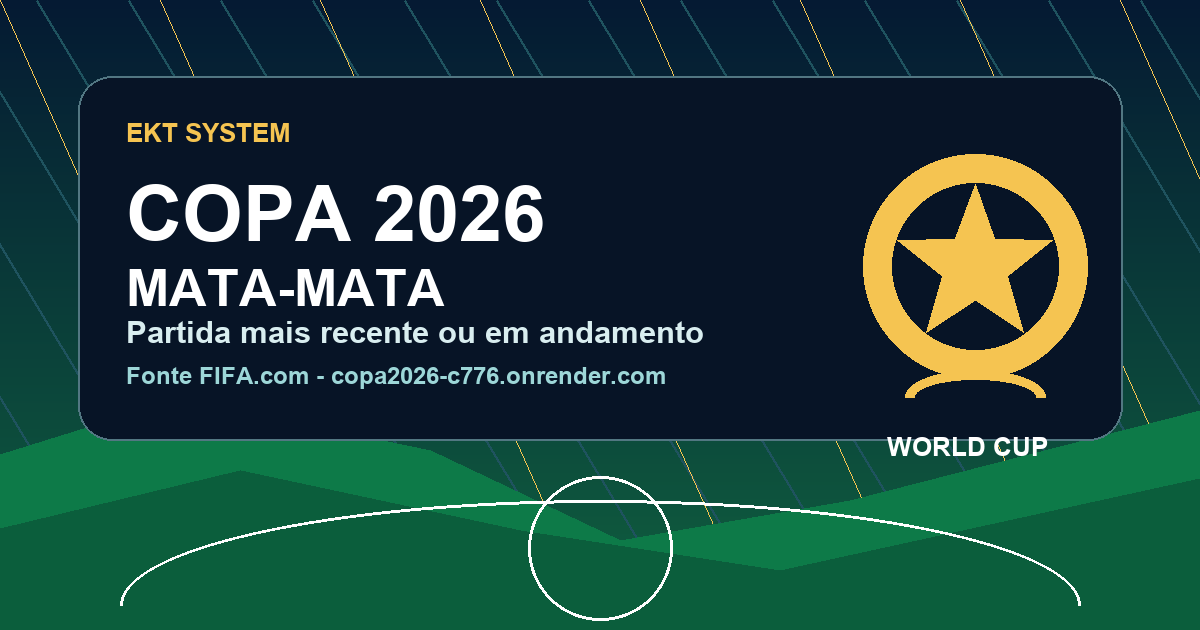
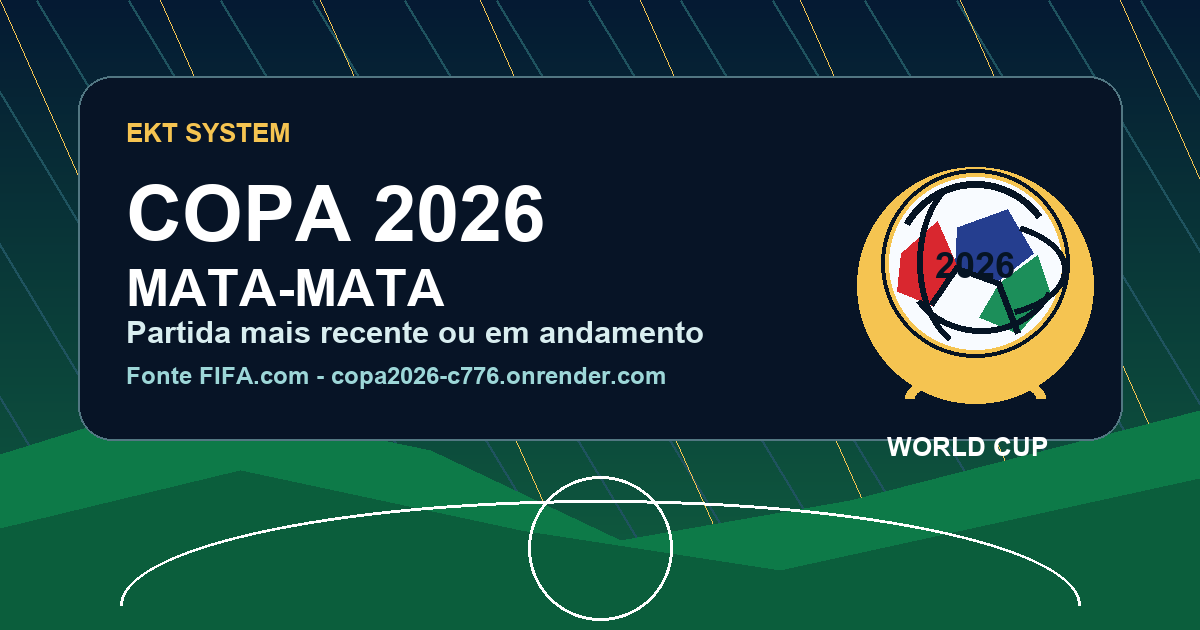
Envia imagem e link separados no mata-mata

Changed region(s): [[0.7092, 0.2413, 0.925, 0.6635]]

diff --git a/static/mata-mata-share.js b/static/mata-mata-share.js
@@ -1,7 +1,9 @@
 const knockoutShareButton = document.querySelector(".knockout-share-button");
 
-const KNOCKOUT_SHARE_URL = "https://copa2026-c776.onrender.com/share/mata-mata?v=20260629-clickable-card-v1";
+const KNOCKOUT_SHARE_URL = "https://copa2026-c776.onrender.com/share/mata-mata";
 const KNOCKOUT_SHARE_TEXT = "Caminho ate a final da World Cup 2026. Desenv. EKT";
+const KNOCKOUT_SHARE_IMAGE_URL = "/mata-mata-share-card.png?v=20260629-share-v3";
+const KNOCKOUT_SHARE_IMAGE_NAME = "copa-2026-caminho-ate-a-final.png";
 
 function knockoutShareMessage() {
   return `${KNOCKOUT_SHARE_TEXT}\n${KNOCKOUT_SHARE_URL}`;
@@ -11,8 +13,38 @@ function openKnockoutFallbackShare() {
   window.open(`https://wa.me/?text=${encodeURIComponent(knockoutShareMessage())}`, "_blank", "noopener,noreferrer");
 }
 
+async function buildKnockoutShareFile() {
+  const response = await fetch(KNOCKOUT_SHARE_IMAGE_URL, { cache: "no-store" });
+  if (!response.ok) throw new Error("Nao foi possivel carregar a arte de compartilhamento.");
+
+  const blob = await response.blob();
+  return new File([blob], KNOCKOUT_SHARE_IMAGE_NAME, { type: blob.type || "image/png" });
+}
+
+async function shareKnockoutImageAndLink() {
+  if (!navigator.share || !navigator.canShare || typeof File === "undefined") return false;
+
+  const file = await buildKnockoutShareFile();
+  const shareData = {
+    title: KNOCKOUT_SHARE_TEXT,
+    text: knockoutShareMessage(),
+    files: [file],
+  };
+
+  if (!navigator.canShare(shareData)) return false;
+
+  await navigator.share(shareData);
+  return true;
+}
+
 async function shareKnockoutStory() {
   if (navigator.share) {
+    try {
+      if (await shareKnockoutImageAndLink()) return;
+    } catch (error) {
+      if (error?.name === "AbortError") return;
+    }
+
     try {
       await navigator.share({
         title: KNOCKOUT_SHARE_TEXT,

diff --git a/static/mata-mata.html b/static/mata-mata.html
@@ -80,6 +80,6 @@
     </main>
 
     <script src="/mata-mata.js?v=20260628-full-knockout-sync-v1"></script>
-    <script src="/mata-mata-share.js?v=20260629-link-share-v4"></script>
+    <script src="/mata-mata-share.js?v=20260629-link-share-v5"></script>
   </body>
 </html>

diff --git a/app.py b/app.py
@@ -16,7 +16,7 @@ from zoneinfo import ZoneInfo
 
 
 APP_NAME = "copa2026"
-APP_VERSION = "2026.06.29-knockout-share-v9"
+APP_VERSION = "2026.06.29-knockout-share-v10"
 BASE_DIR = Path(__file__).resolve().parent
 STATIC_DIR = BASE_DIR / "static"
 DATA_DIR = BASE_DIR / "data"
@@ -693,8 +693,8 @@ def choose_knockout_share_match(scores: list[dict], score_source: dict) -> dict:
 
 def render_knockout_share_html(match: dict) -> bytes:
     base_url = "https://copa2026-c776.onrender.com"
-    share_url = f"{base_url}/share/mata-mata?v=20260629-clickable-card-v1"
-    image_url = f"{base_url}/mata-mata-share-card.png?v=20260629-share-v2"
+    share_url = f"{base_url}/share/mata-mata"
+    image_url = f"{base_url}/mata-mata-share-card.png?v=20260629-share-v3"
     share_title = "Caminho ate a final da World Cup 2026. Desenv. EKT"
     title = share_match_title(match)
     match_line = f"Jogo {match['id']} - {match['state']}"
@@ -728,7 +728,7 @@ def render_knockout_share_html(match: dict) -> bytes:
   </head>
   <body class="share-card-page">
     <main class="share-card-shell" aria-label="Compartilhamento do mata-mata">
-      <img src="/mata-mata-share-card.png?v=20260629-share-v2" alt="Arte Copa 2026" />
+      <img src="/mata-mata-share-card.png?v=20260629-share-v3" alt="Arte Copa 2026" />
       <strong>{escape(share_title)}</strong>
       <p>{escape(match_line)}</p>
       <h1>{escape(title)}</h1>